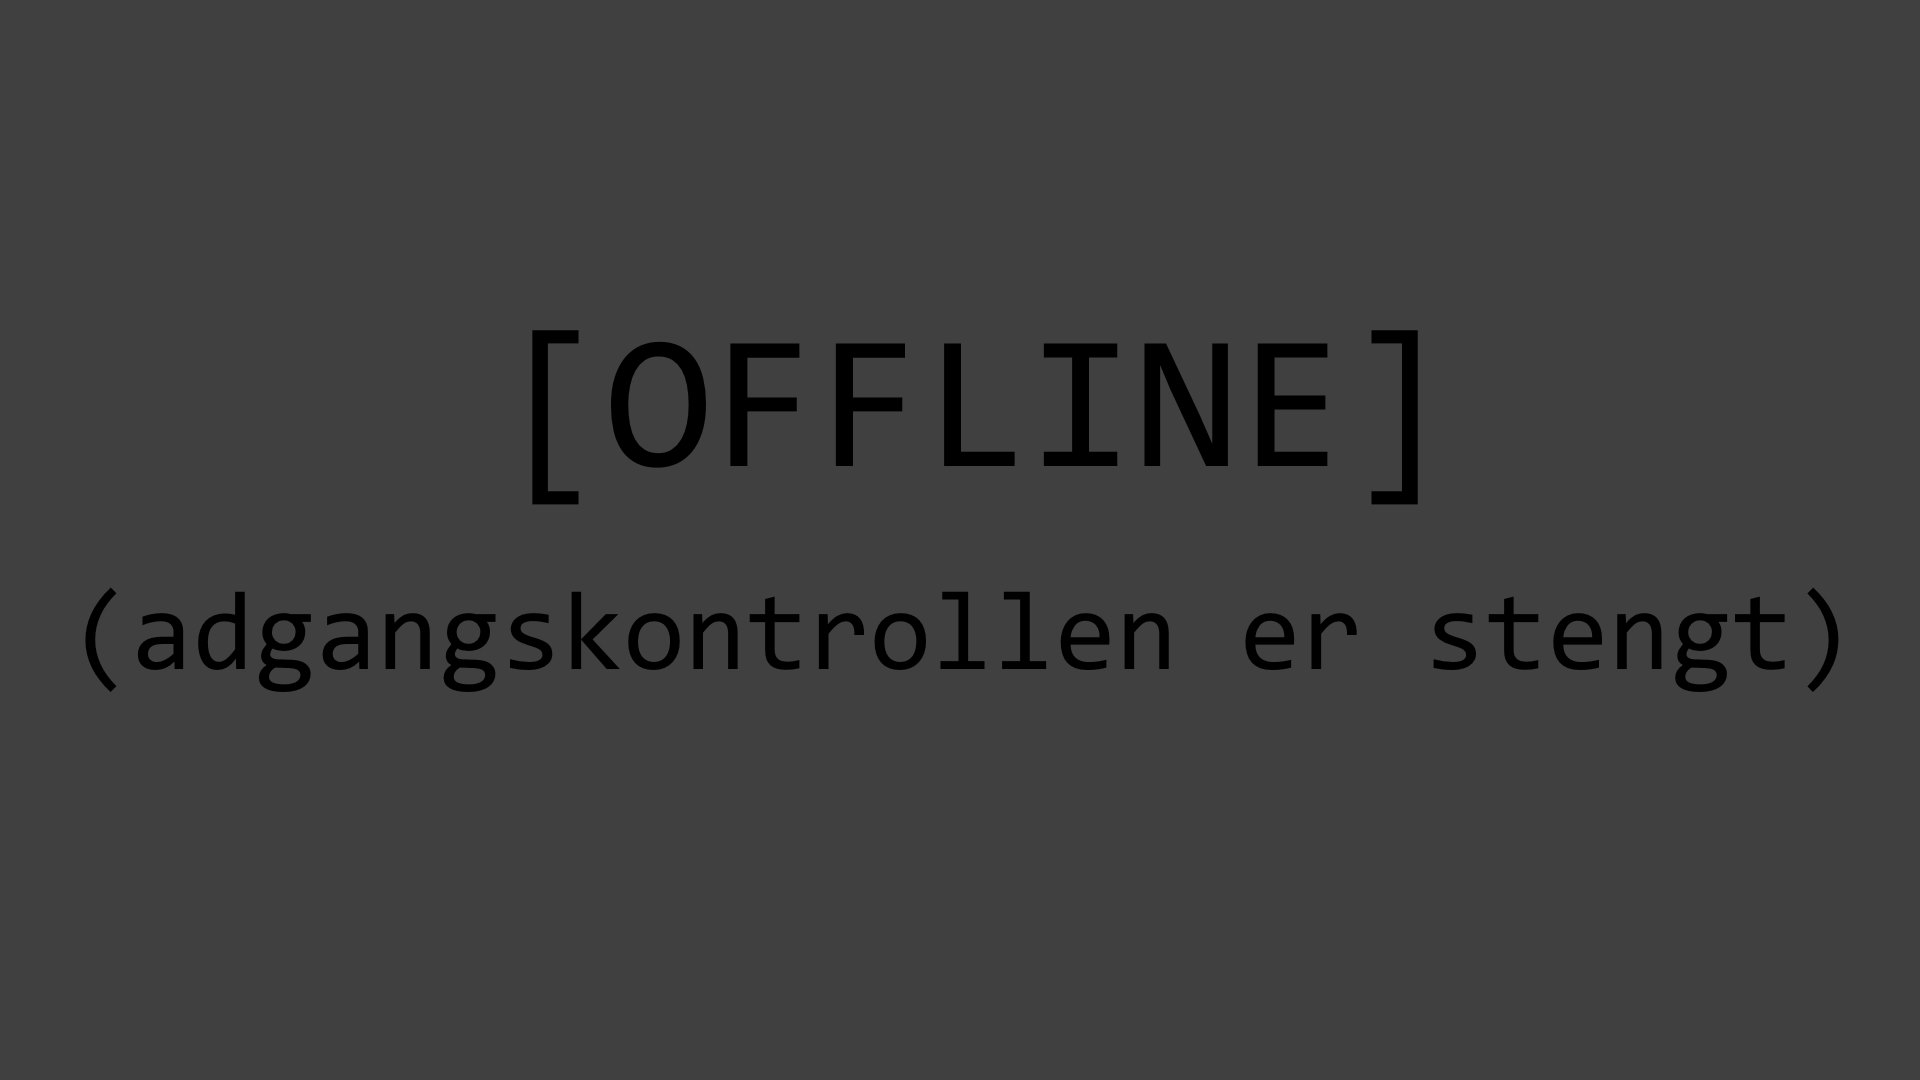
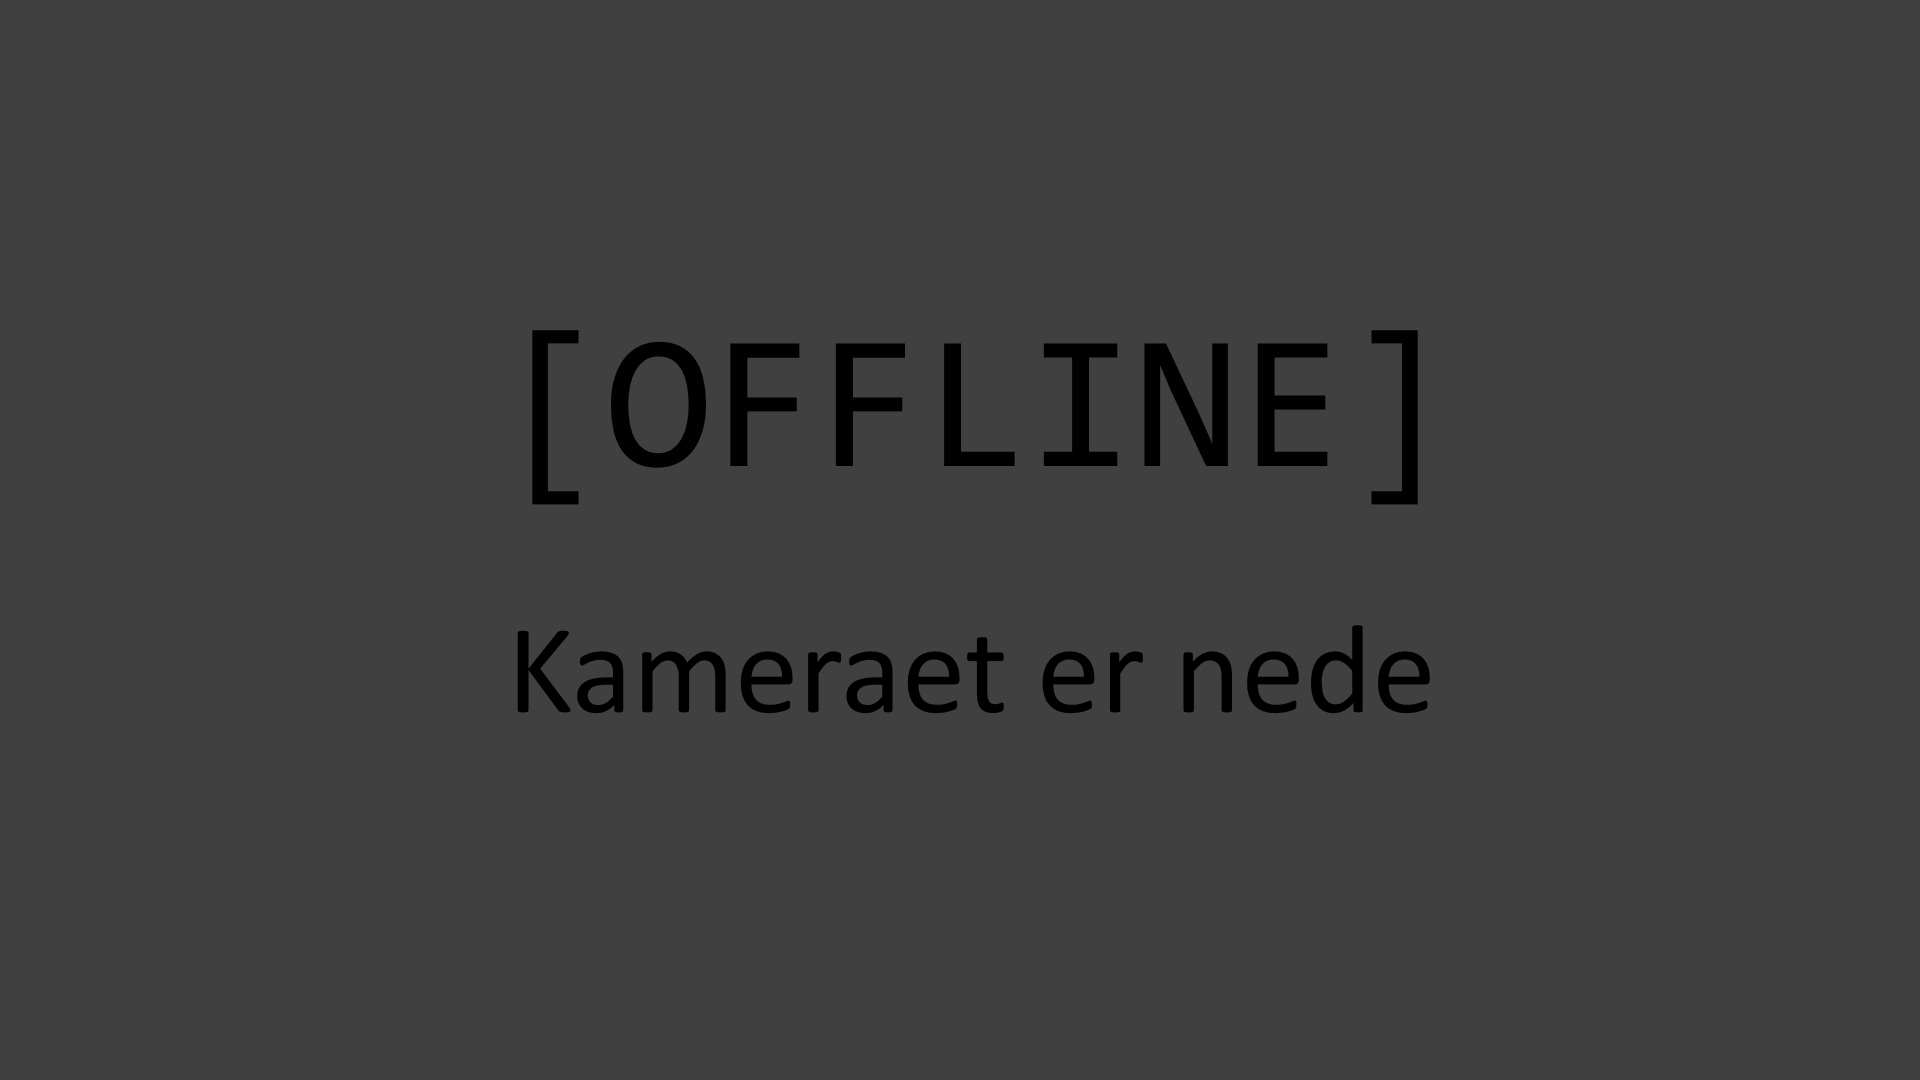
Lower timeout from 5 to 2 seconds on adgangskontrollen, and change offline picture

Changed region(s): [[0.0312, 0.55, 0.9688, 0.6722]]

diff --git a/services/adgangskontrollen/view.html b/services/adgangskontrollen/view.html
@@ -1,26 +1,26 @@
 <!DOCTYPE html "
 '    .''.
  '..'    '.  \/       \/            __       __
-		   '.(corporate)o         ."  ".   ."  ".
-		   ____      ""          /  .-. \_/ .-.  \                  ____
-		  /    `"=._           _/  (o  )   (o  )  \_           _.="`    \
-		 |          "=.      /'     '-'_,-,_'-'     `\      .="          |
-		 |     ".      ".   |   '.  _."_.-._"._  .'   |   ."      ."     |
-		  ".     ".      ".  \    `"-.~._^_.~.-"`    /  ."      ."     ."
-			".     ".      ". `--._   `-.~.-`   _.--` ."      ."     ."
-			  "=._   ".      "=./  `._       _.`  \.="      ."   _.="
-				  "=._ "._     /      `"""""`      \     _." _.="
-					  "=. "-. :                     : .-" .="
-						 ".  "|     Y          Y    |"  ."
-					   _.="`  _\    \          /    /_ `"=._     
-			_.-"""``""`  _.-"`__\    \-.____.-/    /__`"-._ `""``"""-._
-		 .-'.-' _.-'_.-"`._..' .' .'\ \      / /'. '._'.   `"-._'-._'-.'-.
-		 `"` `"` `"`        `"` `"`  `"`    `"`   `"` `"`       `"` `"` `"`
+           '.(corporate)o         ."  ".   ."  ".
+           ____      ""          /  .-. \_/ .-.  \                  ____
+          /    `"=._           _/  (o  )   (o  )  \_           _.="`    \
+         |          "=.      /'     '-'_,-,_'-'     `\      .="          |
+         |     ".      ".   |   '.  _."_.-._"._  .'   |   ."      ."     |
+          ".     ".      ".  \    `"-.~._^_.~.-"`    /  ."      ."     ."
+            ".     ".      ". `--._   `-.~.-`   _.--` ."      ."     ."
+              "=._   ".      "=./  `._       _.`  \.="      ."   _.="
+                  "=._ "._     /      `"""""`      \     _." _.="
+                      "=. "-. :                     : .-" .="
+                         ".  "|     Y          Y    |"  ."
+                       _.="`  _\    \          /    /_ `"=._     
+            _.-"""``""`  _.-"`__\    \-.____.-/    /__`"-._ `""``"""-._
+         .-'.-' _.-'_.-"`._..' .' .'\ \      / /'. '._'.   `"-._'-._'-.'-.
+         `"` `"` `"`        `"` `"`  `"`    `"`   `"` `"`       `"` `"` `"`
 ">
 <body style="margin:0; text-align:center; width:100%; height:100%; background:#333;">
 <img style="max-width:100%; max-height:100%" src="/adgangskontrollen/image.jpg">
 <script>
-	setInterval(function(){document.getElementsByTagName('img')[0].src = "/adgangskontrollen/image.jpg?random="+new Date();}, 5000)
+    setInterval(function(){document.getElementsByTagName('img')[0].src = "/adgangskontrollen/image.jpg?random="+new Date();}, 2000)
 </script>
 <!-- 
                             __--~~--_     _--~~--__
@@ -37,7 +37,7 @@
                        /  __---~~~~         ~~~~---__  \
                       _-~~                           ~~-_
                     /~                PVV               ~\
-                   (_-~          REM BEST GRILL        ~-_)
+                   (_-~          RAM BEST GRILL        ~-_)
                      \                                   /
                     _-~-_                             _-~-_
                    /     ~~--___               ___--~~     \
